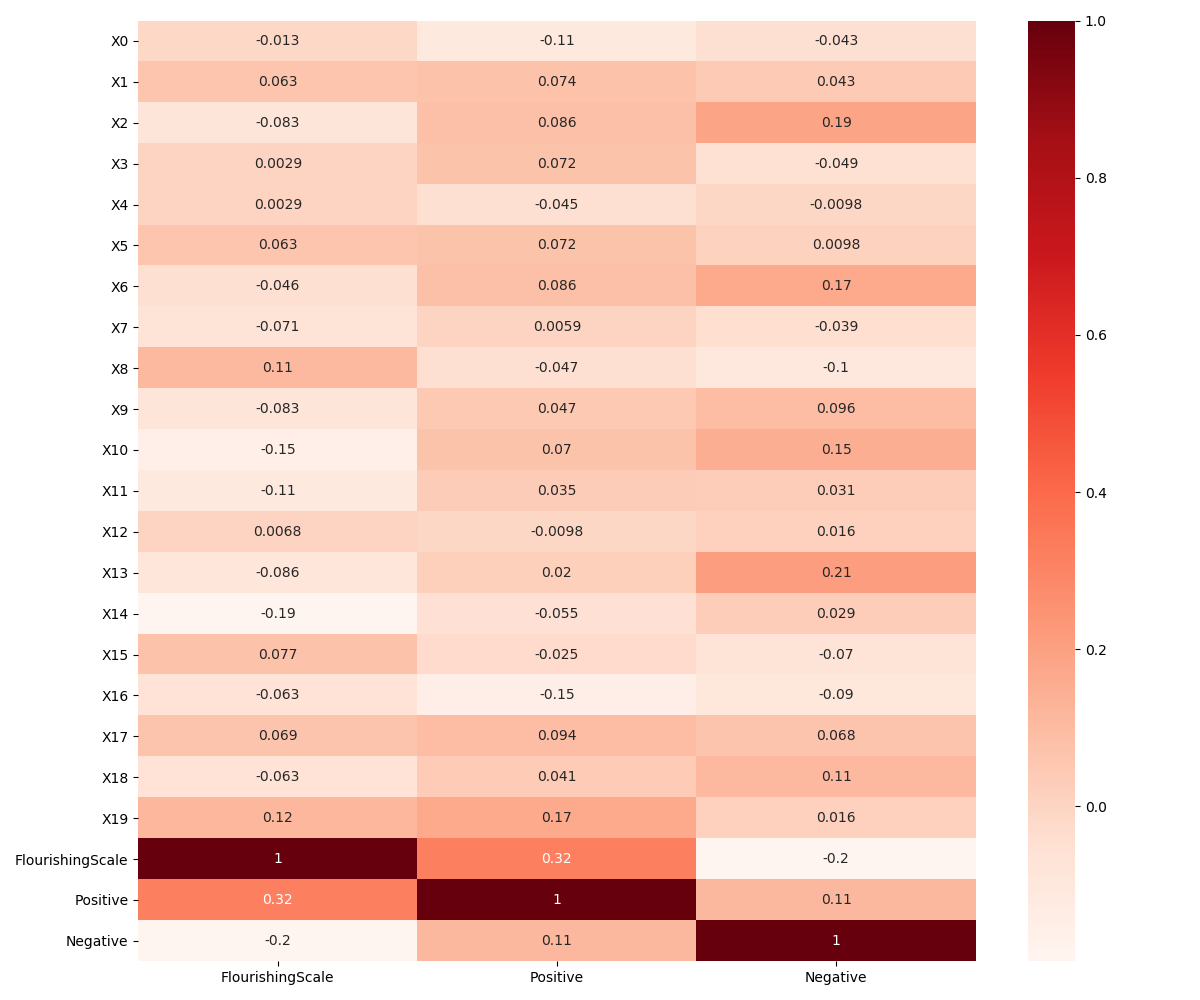
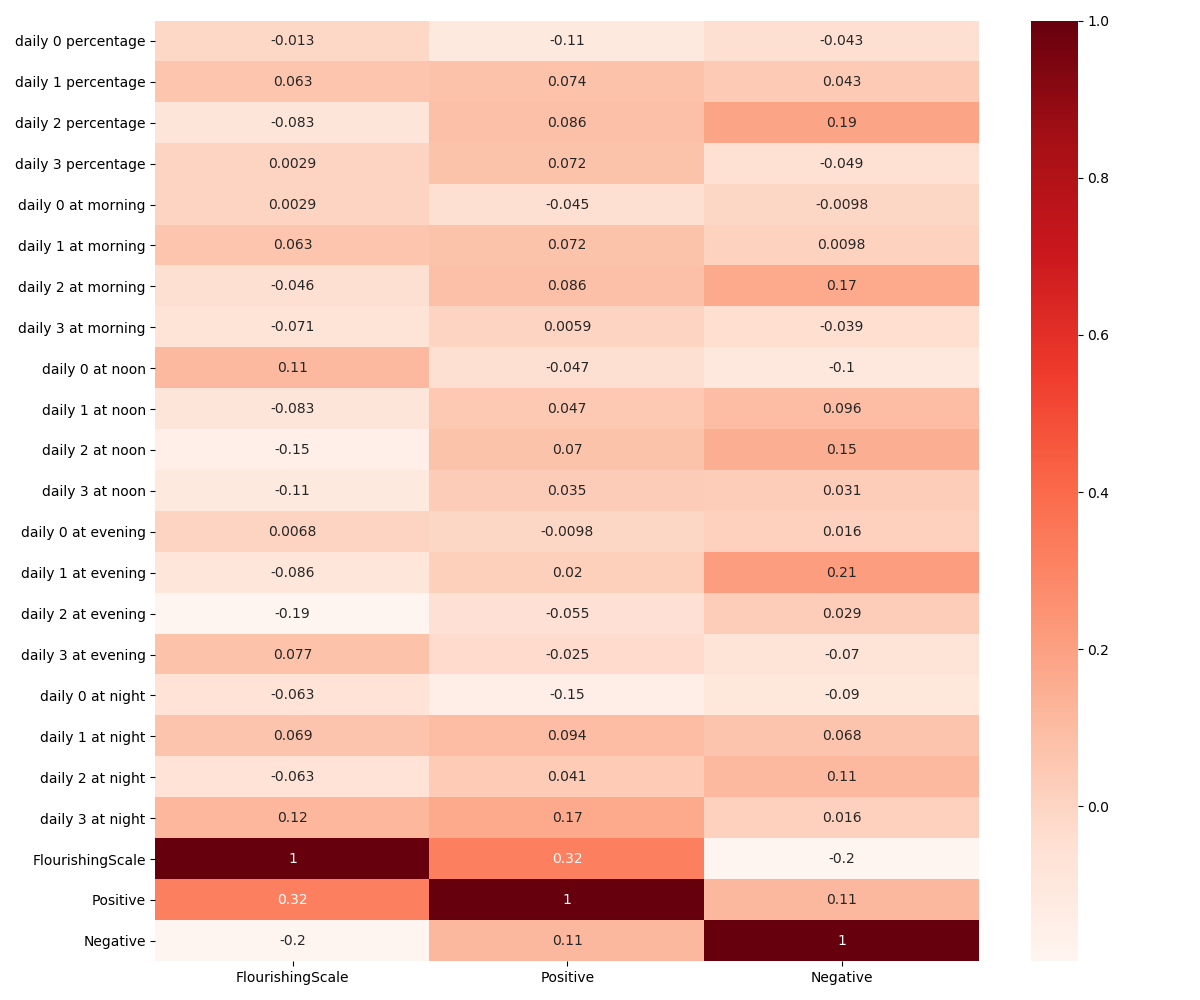
update readme

diff --git a/calc_corr.py b/calc_corr.py
@@ -13,44 +13,51 @@ def concat_dicts_by_uid(in_dict, out_dict):
         result[uid] = in_dict[uid] + out_dict[uid]
     return result
 
-def input_pca(in_dict,n="mle"):
-    df=pandas.DataFrame(in_dict).T
-    uids=in_dict.keys()
-    pca=PCA(n_components=n)
-    matrix=df.to_numpy()
-    pca.fit(matrix)
-    #print(pca.explained_variance_ratio_)
-    matrix=pca.transform(matrix)
 
-    df=pandas.DataFrame(matrix)
-    df["uid"]=uids
-    data=df.set_index("uid").T.to_dict("list")
-    #print(df)
+def input_pca(in_dict, n="mle"):
+    df = pandas.DataFrame(in_dict).T
+    uids = in_dict.keys()
+    pca = PCA(n_components=n)
+    matrix = df.to_numpy()
+    pca.fit(matrix)
+    # print(pca.explained_variance_ratio_)
+    matrix = pca.transform(matrix)
+
+    df = pandas.DataFrame(matrix)
+    df["uid"] = uids
+    data = df.set_index("uid").T.to_dict("list")
+    # print(df)
     return data
 
 
-
-def get_corr(in_dict,heatmap=False,reduce_dim=False,output_type="val",corr_method='kendall'):
+def get_corr(in_dict, labels_of_input=False, heatmap=False, reduce_dim=False, output_type="val", corr_method='kendall'):
+    print(reduce_dim)
+    print(labels_of_input)
+    print(heatmap)
     if reduce_dim:
-        in_dict=input_pca(in_dict)
+        in_dict = input_pca(in_dict)
     output = process_output.get_output_dict(output_type)
     d = concat_dicts_by_uid(in_dict, output)
-    df=pandas.DataFrame(d).T
-    labels=list(df)
-    labels=labels[:-3]
-    for i in range(0,len(labels)):
-        labels[i]="X"+str(labels[i])
-    labels=labels+["FlourishingScale","Positive","Negative"]
+    df = pandas.DataFrame(d).T
+    labels = list(df)
+    labels = labels[:-3]
+    if labels_of_input and len(labels_of_input) == len(labels):
+        labels = labels_of_input
+    else:
+        for i in range(0, len(labels)):
+            labels[i] = "X" + str(labels[i])
+    labels = labels + ["FlourishingScale", "Positive", "Negative"]
 
-    df.columns=labels
-    corr=df.corr(method=corr_method)
-    corr=corr[["FlourishingScale","Positive","Negative"]]
+    df.columns = labels
+    corr = df.corr(method=corr_method)
+    corr = corr[["FlourishingScale", "Positive", "Negative"]]
 
     if heatmap:
         plt.figure(figsize=(12, 10))
         sns.heatmap(corr, annot=True, cmap=plt.cm.Reds)
         plt.show()
     return corr
+
 
 if __name__ == "__main__":
     # print(fs_df)
@@ -59,5 +66,5 @@ if __name__ == "__main__":
     # pandas.set_option('display.max_rows', data.shape[0] + 1)
     # print(data)
     activities = process_input.get_activity_data()
-    #print(activities)
-    print(get_corr(activities,heatmap=True,output_type="val",reduce_dim=True))
+    # print(activities)
+    print(get_corr(activities, heatmap=True, output_type="val", reduce_dim=True))

diff --git a/test.py b/test.py
@@ -6,5 +6,10 @@ import calc_corr
 
 if __name__ == "__main__":
     in_dict = process_input.get_activity_data()
-
-    print(calc_corr.get_corr(in_dict,heatmap=True,output_type="val",reduce_dim=False))
+    labels_of_input=["daily 0 percentage","daily 1 percentage","daily 2 percentage","daily 3 percentage",
+                     "daily 0 at morning", "daily 1 at morning", "daily 2 at morning", "daily 3 at morning",
+                     "daily 0 at noon", "daily 1 at noon", "daily 2 at noon", "daily 3 at noon",
+                     "daily 0 at evening", "daily 1 at evening", "daily 2 at evening", "daily 3 at evening",
+                     "daily 0 at night", "daily 1 at night", "daily 2 at night", "daily 3 at night",
+                     ]
+    print(calc_corr.get_corr(in_dict,labels_of_input=labels_of_input,heatmap=True,output_type="val",reduce_dim=False))

diff --git a/README.md b/README.md
@@ -68,6 +68,8 @@ input_dict={
  * `reduce_dim` 如果input_dict里面的features实在是太多 
  可应用`reduce_dim=True` 将input利用PCA降维 
  再看降维后的相关系数(此时应着眼于X0,X1,...)数字越后的所能代表原有input数据越少
+ * `labels_of_input` input中各个feature的名字 方便辨认
+ 
  
 一个示例的相关系数热力图:
 
